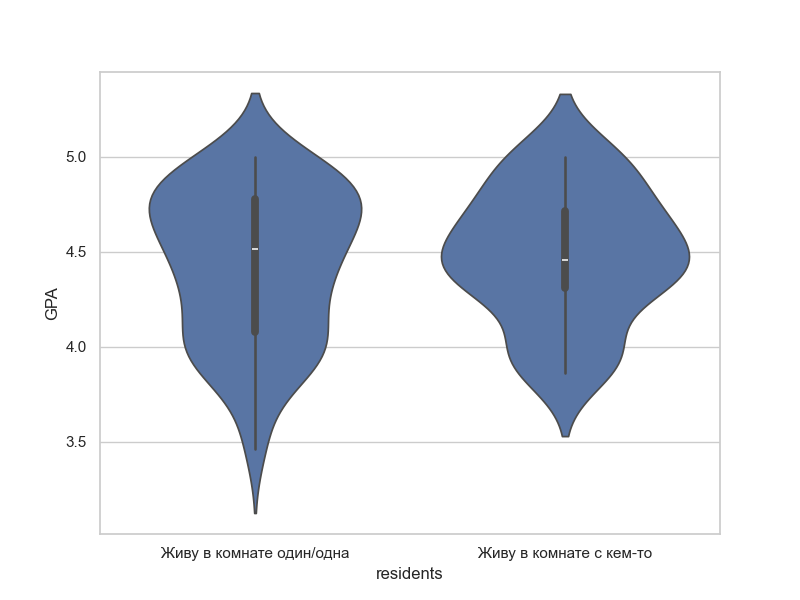
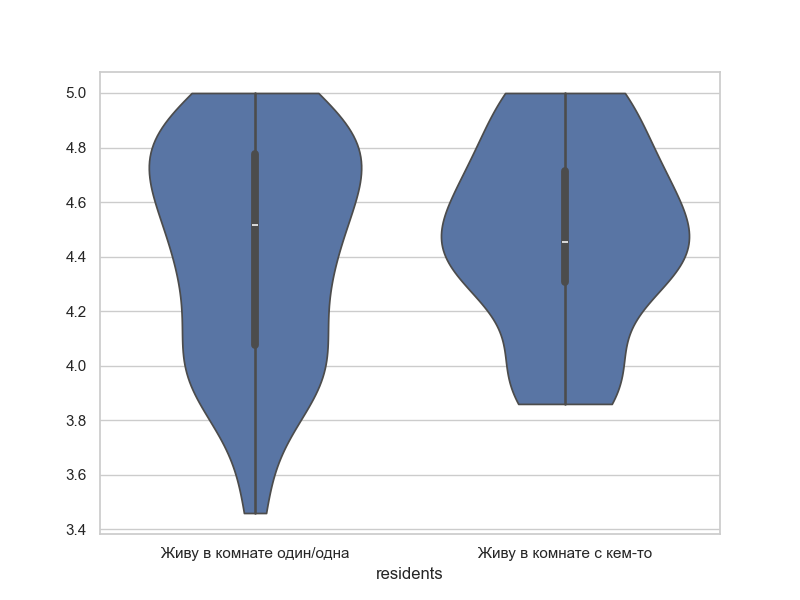
1.3

diff --git a/test.py b/test.py
@@ -5,11 +5,13 @@ import matplotlib.pyplot as plt
 
 df = pd.read_csv('data.csv', sep=',')
 param = 'GPA'
-plt.figure(figsize=(14, 10))
-sns.set(style="whitegrid")
-df['room_type'].value_counts().plot(kind='pie', autopct='%1.1f%%', legend=False, fontsize=36)
-plt.ylabel('')
-plt.savefig('output.png', transparent=True)
-plt.show()
+for factor in ["school"]:
+    plt.figure(figsize=(8, 6))
+    sns.set(style="whitegrid")
+    sns.set(font_scale=0.6)
+    sns.violinplot(data=df, x=factor, y='GPA', cut=0)
+    plt.ylabel('')
+    plt.savefig(f'static/assets/img/graph_violin_{factor}.png')
+    plt.show()
 
 
